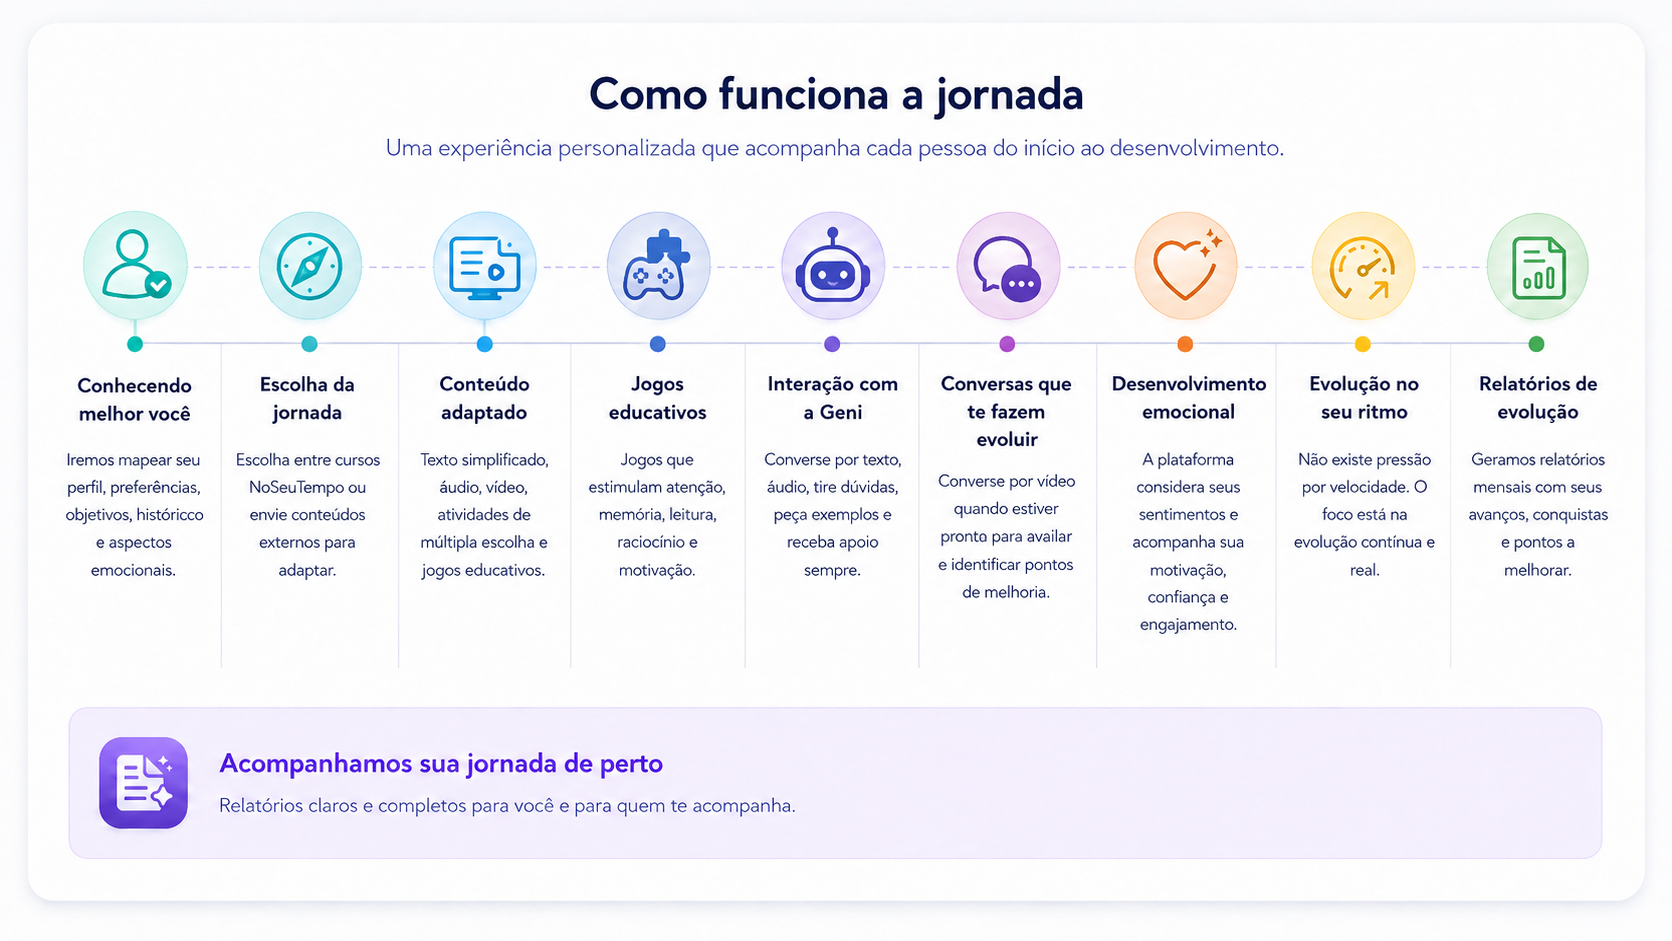
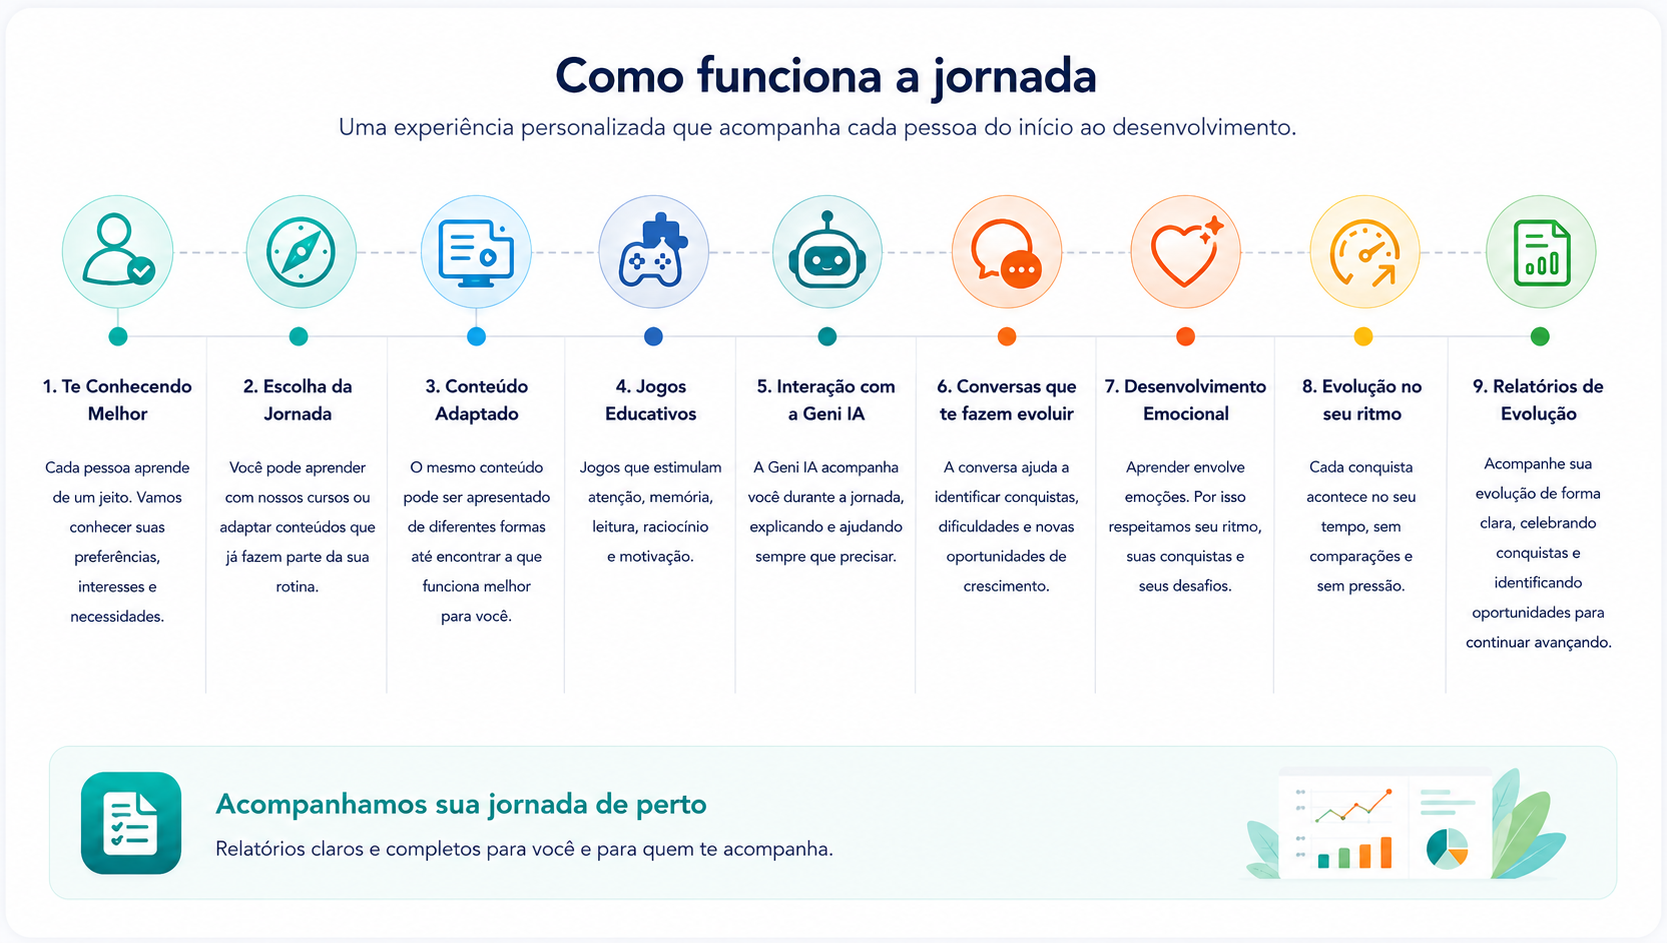
Home: atualiza imagem da jornada com novos textos dos 9 passos (cache-bust v2)
Espelha a producao da VPS.

diff --git a/index.html b/index.html
@@ -99,7 +99,7 @@
 
       <section class="acc-v2" id="jornada" aria-labelledby="journey-title">
         <h2 id="journey-title" style="position:absolute;width:1px;height:1px;padding:0;margin:-1px;overflow:hidden;clip:rect(0 0 0 0);white-space:nowrap;border:0;">Como funciona a jornada</h2>
-        <img class="acc-img" src="assets/home/jornada.png?v=1" alt="Como funciona a jornada — uma experiência personalizada que acompanha cada pessoa do início ao desenvolvimento. Etapas: Conhecendo melhor você, Escolha da jornada, Conteúdo adaptado, Jogos educativos, Interação com a Geni, Conversas que te fazem evoluir, Desenvolvimento emocional, Evolução no seu ritmo e Relatórios de evolução. Acompanhamos sua jornada de perto com relatórios claros e completos." />
+        <img class="acc-img" src="assets/home/jornada.png?v=2" alt="Como funciona a jornada — uma experiência personalizada que acompanha cada pessoa do início ao desenvolvimento. Etapas: Te Conhecendo Melhor, Escolha da Jornada, Conteúdo Adaptado, Jogos Educativos, Interação com a Geni IA, Conversas que te fazem evoluir, Desenvolvimento Emocional, Evolução no seu ritmo e Relatórios de Evolução. Acompanhamos sua jornada de perto com relatórios claros e completos." />
       </section>
 
       <section class="acc-v2" id="acessibilidade" aria-labelledby="a11y-title">
